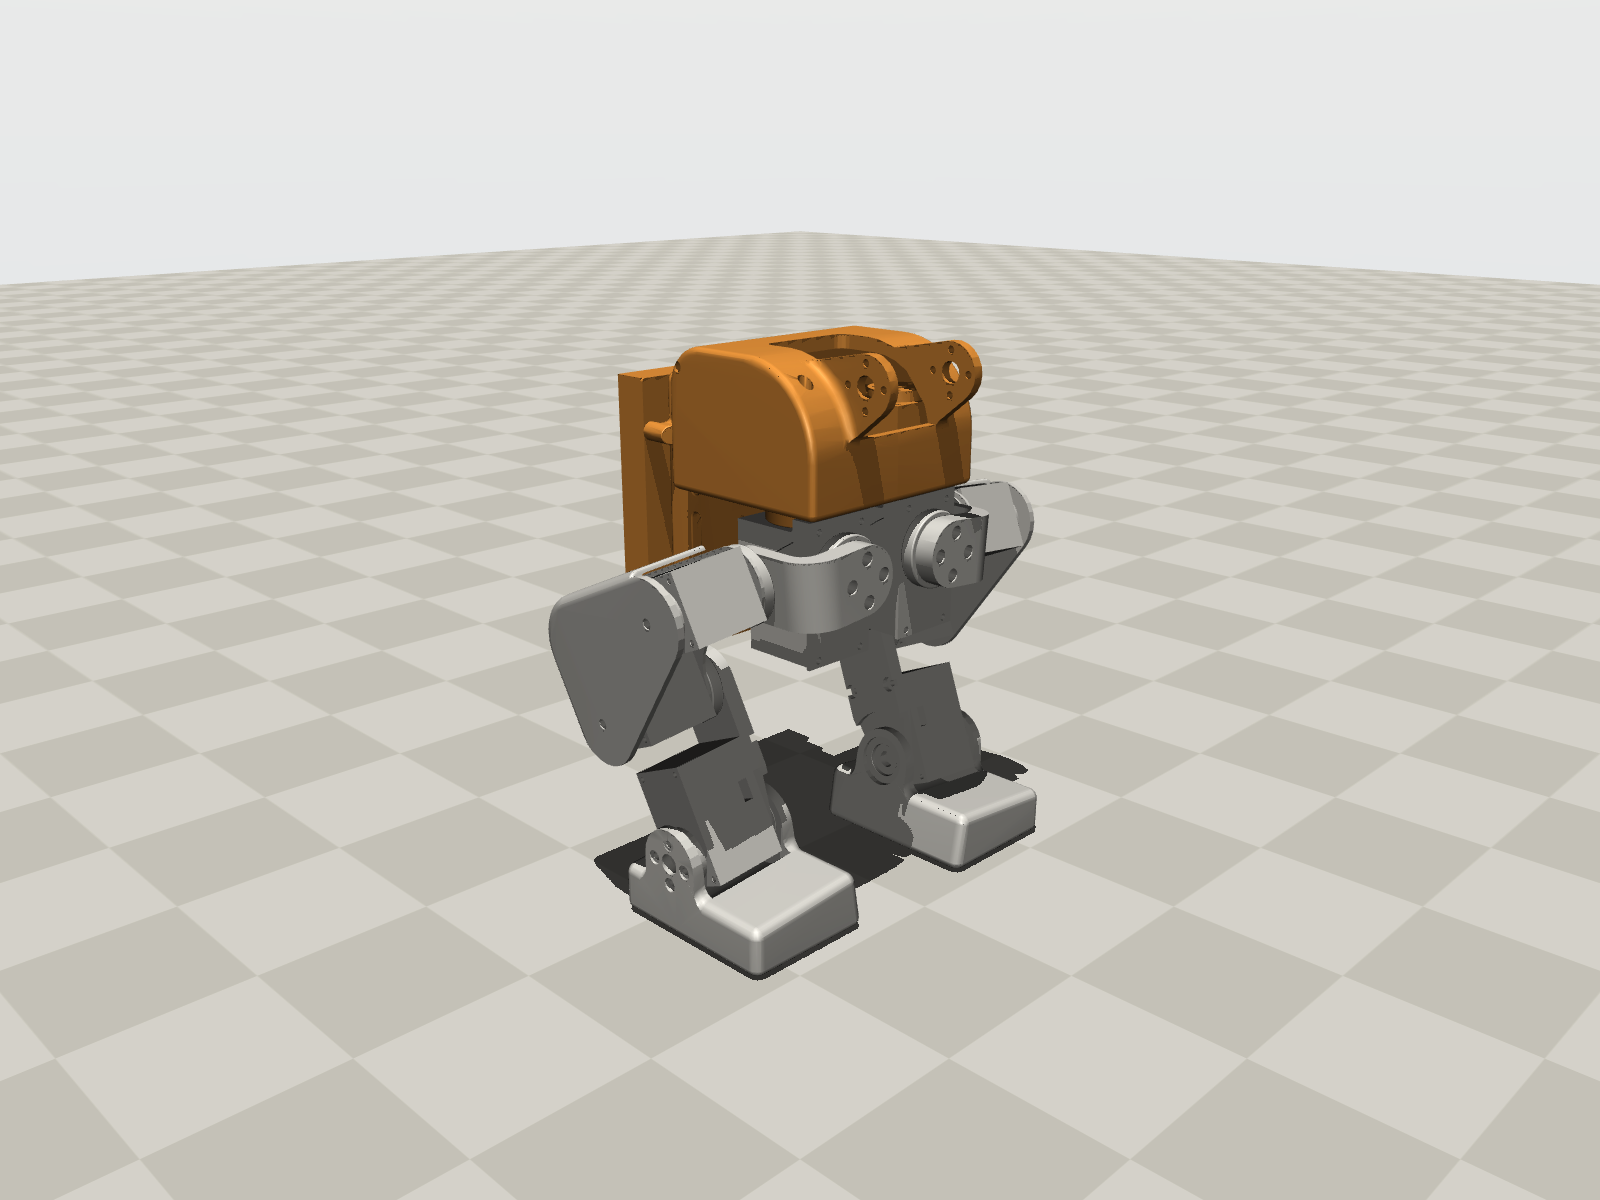
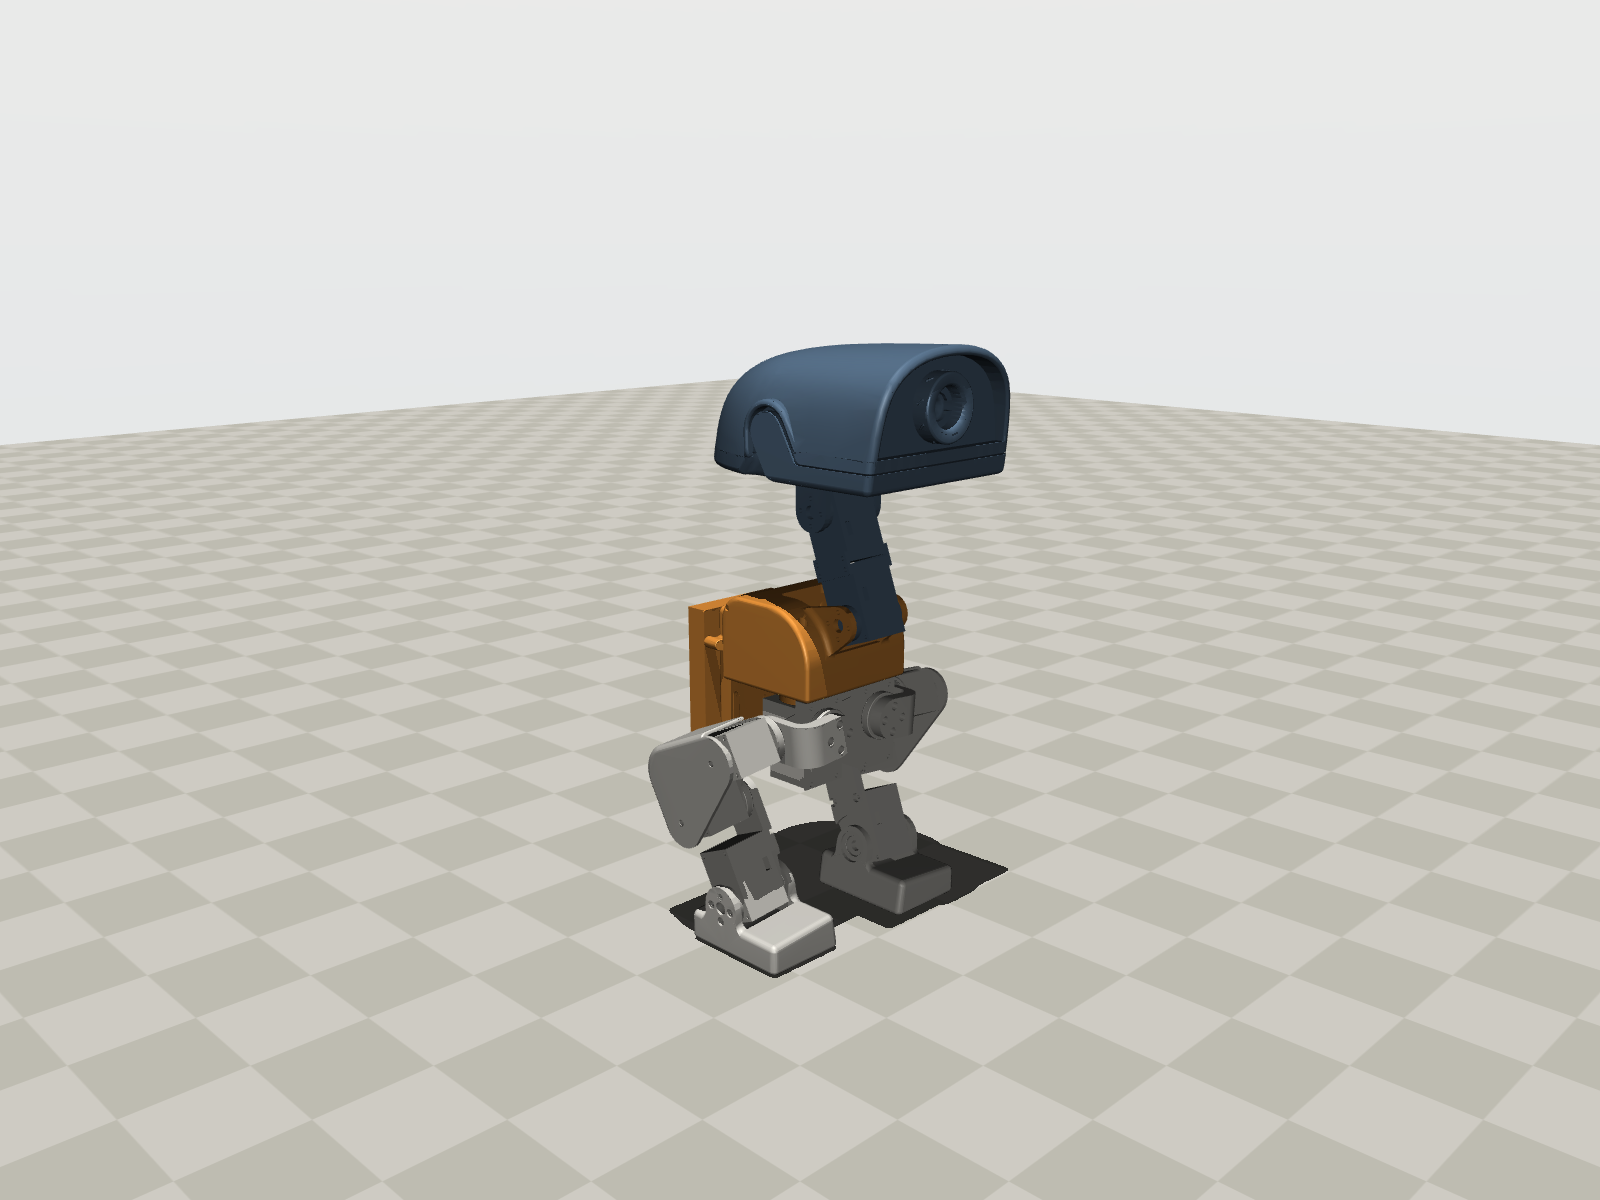
feat(rl): keep the head in simulation as a fixed, unactuated body
The real robot has no neck/head servos or sensors, but the simulation
now keeps the neck/head geometry and mass, welded at xgoduck's HOME
angles, instead of deleting it. Only the 10 leg joints move, so the
policy stays at 39 observations / 10 actions. Head COM randomization is
kept; HEAD_MASS_KG lets the measured head mass replace xgoduck's (which
includes 4 servos).

check_model.py now verifies the fixed-head model matches xgoduck's mass
and COM at home and reports the head-removed variant for comparison
(COM 7 mm vs 16 mm behind the feet). Renders updated accordingly.

Claude-Session: https://claude.ai/code/session_01RC83XNZvoTV4sHA6QD2JPK

Changed region(s): [[0.0, 0.185, 1.0, 0.8325]]

diff --git a/rl/hangoutduck_rl/robot.py b/rl/hangoutduck_rl/robot.py
@@ -1,13 +1,15 @@
-"""HangoutDuck 下半身模型。
+"""HangoutDuck 仿真模型：10 个腿部关节可动，头颈保留为固定件。
 
-在 xgoduck 的 MJCF 上删掉整个颈/头子树（neck → neck_pitch → yaw_roll_motion → jaw_soft）
-和对应的 4 个执行器，腿、HLS1910 的 BAM 执行器模型、碰撞设置全部沿用 xgoduck。
+真机头颈不装舵机和传感器，但仿真里保留整个头颈子树
+（neck → neck_pitch → yaw_roll_motion → jaw_soft）的几何和质量：
+删掉 4 个颈/头关节和执行器，把头颈按 xgoduck 的 home 角度焊死在躯干上。
+腿、HLS1910 的 BAM 执行器模型、碰撞设置全部沿用 xgoduck。
 """
 
 from __future__ import annotations
 
 import math
-from typing import Optional
+from typing import Dict, Optional
 
 import mujoco
 import numpy as np
@@ -16,7 +18,15 @@ from mjlab.entity import EntityArticulationInfoCfg, EntityCfg
 from mjlab_microduck.robot import xgoduck_constants as xgo
 
 NECK_ROOT_BODY = "neck"
-REMOVED_JOINTS = ("neck_pitch", "head_pitch", "head_yaw", "head_roll")
+HEAD_BODIES = ("neck", "neck_pitch", "yaw_roll_motion", "jaw_soft")
+
+# 头颈关节焊死的角度（rad），即 xgoduck 的 home 姿态
+HEAD_FIXED_POS: Dict[str, float] = {
+    "neck_pitch": 0.3491,
+    "head_pitch": 0.3491,
+    "head_yaw": 0.0,
+    "head_roll": 0.0,
+}
 
 # 与 main 分支 hardware/joints.yaml 的顺序一致，也是策略动作/观测里的关节顺序
 LEG_JOINTS = (
@@ -25,38 +35,79 @@ LEG_JOINTS = (
 )
 
 # ---- 需要按实物修改的参数 ----------------------------------------------------
-# 躯干（trunk_base）质量，kg：称「躯干打印件 + 躯干上的一切（IMU、线材、螺丝），不含腿」。
-# None 表示沿用 xgoduck 的值（0.238 kg，是它按整机 0.8 kg 缩放出来的）。
-# 我们身上没有主控和电池，躯干很可能更轻，务必实称后填写。
 # 改完用 `python rl/scripts/check_model.py` 看整机质量和质心。
+#
+# 躯干（trunk_base）质量，kg：称「躯干打印件 + 躯干上的一切（IMU、线材、螺丝），不含腿和头」。
+# None 表示沿用 xgoduck 的值（0.238 kg，是它按整机 0.8 kg 缩放出来的）。
 TRUNK_MASS_KG: Optional[float] = None
+# 头颈总质量，kg（neck、neck_pitch、yaw_roll_motion、jaw_soft 四个 body 合计）。
+# None 表示沿用 xgoduck 的 0.251 kg，其中包含 4 个颈/头舵机；
+# 我们的头不装舵机，实物会更轻，装好后称重填写（各 body 按比例缩放）。
+HEAD_MASS_KG: Optional[float] = None
 
 
-def strip_head(spec: mujoco.MjSpec, trunk_mass_kg: Optional[float] = None) -> mujoco.MjSpec:
-    """原地修改 spec：删掉颈/头，按需改躯干质量（惯量按同比例缩放）。"""
+def _scale_body_mass(body, scale: float) -> None:
+    body.mass = body.mass * scale
+    body.fullinertia = np.asarray(body.fullinertia) * scale
+
+
+def _rotate_about_local_z(quat, angle: float) -> np.ndarray:
+    out = np.zeros(4)
+    mujoco.mju_mulQuat(out, np.asarray(quat, dtype=float), np.array([math.cos(angle / 2), 0.0, 0.0, math.sin(angle / 2)]))
+    return out
+
+
+def freeze_head(
+    spec: mujoco.MjSpec,
+    trunk_mass_kg: Optional[float] = None,
+    head_mass_kg: Optional[float] = None,
+) -> mujoco.MjSpec:
+    """原地修改 spec：删掉颈/头的关节和执行器，头颈按 HEAD_FIXED_POS 焊在躯干上。
+
+    xgoduck 的颈/头关节都在各自 body 的原点、绕本地 z 轴转动，
+    所以把 body 的姿态绕本地 z 轴转过对应角度，就等于把关节固定在这个角度。
+    """
     for actuator in list(spec.actuators):
-        if actuator.target in REMOVED_JOINTS:
+        if actuator.target in HEAD_FIXED_POS:
             spec.delete(actuator)
-    spec.delete(spec.body(NECK_ROOT_BODY))
+    for joint in list(spec.joints):
+        if joint.name in HEAD_FIXED_POS:
+            body = joint.parent
+            if np.any(np.asarray(joint.pos) != 0) or list(joint.axis) != [0, 0, 1]:
+                raise ValueError(f"{joint.name}: expected a z-axis hinge at the body origin")
+            body.quat = _rotate_about_local_z(body.quat, HEAD_FIXED_POS[joint.name])
+            spec.delete(joint)
     if trunk_mass_kg is not None:
         trunk = spec.body("trunk_base")
-        scale = trunk_mass_kg / trunk.mass
-        trunk.mass = trunk_mass_kg
-        trunk.fullinertia = np.asarray(trunk.fullinertia) * scale
+        _scale_body_mass(trunk, trunk_mass_kg / trunk.mass)
+    if head_mass_kg is not None:
+        bodies = [spec.body(n) for n in HEAD_BODIES]
+        scale = head_mass_kg / sum(b.mass for b in bodies)
+        for b in bodies:
+            _scale_body_mass(b, scale)
+    return spec
+
+
+def remove_head(spec: mujoco.MjSpec) -> mujoco.MjSpec:
+    """只用于对比：完全去掉头颈（之前的方案）。训练不用。"""
+    for actuator in list(spec.actuators):
+        if actuator.target in HEAD_FIXED_POS:
+            spec.delete(actuator)
+    spec.delete(spec.body(NECK_ROOT_BODY))
     return spec
 
 
 def get_walk_spec() -> mujoco.MjSpec:
-    return strip_head(xgo.get_walk_spec(), TRUNK_MASS_KG)
+    return freeze_head(xgo.get_walk_spec(), TRUNK_MASS_KG, HEAD_MASS_KG)
 
 
 def get_standup_spec() -> mujoco.MjSpec:
-    return strip_head(xgo.get_standup_spec(), TRUNK_MASS_KG)
+    return freeze_head(xgo.get_standup_spec(), TRUNK_MASS_KG, HEAD_MASS_KG)
 
 
 _DEG24 = math.radians(24)
 
-# 与 xgoduck 相同的站姿（hip_pitch / ankle ±24°，hip_roll ±5°），去掉颈/头
+# 与 xgoduck 相同的站姿（hip_pitch / ankle ±24°，hip_roll ±5°）；头颈是固定件，不在这里
 HOME_JOINT_POS = {
     "left_hip_yaw": 0.0,
     "left_hip_roll": -0.0873,

diff --git a/rl/scripts/render_model.py b/rl/scripts/render_model.py
@@ -1,4 +1,4 @@
-"""把下半身模型渲染成图片/GIF，用于汇报和标定参考。不需要显卡。
+"""把 HangoutDuck 模型渲染成图片/GIF，用于汇报和标定参考。不需要显卡。
 
 没有显示器的机器用虚拟显示运行：
     cd rl/third_party/xgoduck_rl
@@ -6,10 +6,10 @@
         uv run python ../../scripts/render_model.py --out ../../../docs/sim
 
 输出：
-  hangoutduck_home.png   下半身模型，站姿（home）
-  hangoutduck_zero.png   全部关节为 0 的机械零位（标定时要摆的姿态）
-  compare_side.png       侧视对比：左 xgoduck（带头），右 HangoutDuck；红线 = 质心，蓝点 = 双脚中心
-  stand_test.gif         两台机器用位置 PD 保持站姿 3 秒（左 xgoduck，右 HangoutDuck）
+  hangoutduck_home.png   HangoutDuck（头颈固定，10 个腿关节），站姿（home）
+  hangoutduck_zero.png   腿部关节全部为 0 的机械零位（标定时要摆的姿态）
+  compare_side.png       侧视对比：左 保留头（固定），右 去掉头；红线 = 质心，蓝点 = 双脚中心
+  stand_test.gif         两者用位置 PD 保持站姿 3 秒（左 保留头，右 去掉头）
 """
 
 from __future__ import annotations
@@ -24,8 +24,6 @@ from PIL import Image
 
 from hangoutduck_rl import robot as hd
 from mjlab_microduck.robot import xgoduck_constants as xgo
-
-XGODUCK_HOME = {**hd.HOME_JOINT_POS, "neck_pitch": 0.3491, "head_pitch": 0.3491, "head_yaw": 0.0, "head_roll": 0.0}
 
 BODY_RGBA = np.array([0.91, 0.58, 0.23, 1.0])  # 躯干：橙
 LEG_RGBA = np.array([0.86, 0.85, 0.82, 1.0])  # 腿：暖灰
@@ -130,18 +128,18 @@ def main() -> None:
     hd_data = mujoco.MjData(hd_model)
 
     set_pose(hd_model, hd_data, hd.HOME_JOINT_POS, hd.STAND_Z)
-    Image.fromarray(render(hd_model, hd_data, camera([0.0, 0.0, 0.08], 0.42, 135, -18), W, H)).save(out / "hangoutduck_home.png")
+    Image.fromarray(render(hd_model, hd_data, camera([0.0, 0.0, 0.15], 0.66, 135, -14), W, H)).save(out / "hangoutduck_home.png")
 
     set_pose(hd_model, hd_data, {n: 0.0 for n in hd.LEG_JOINTS}, hd.STAND_Z + 0.02)
-    Image.fromarray(render(hd_model, hd_data, camera([0.0, 0.0, 0.09], 0.42, 135, -12), W, H)).save(out / "hangoutduck_zero.png")
+    Image.fromarray(render(hd_model, hd_data, camera([0.0, 0.0, 0.16], 0.66, 135, -10), W, H)).save(out / "hangoutduck_zero.png")
 
     # 侧视对比（从机器人右侧看，x 朝前 = 画面向左）
     SW, SH = 900, 1100
-    xg_model = build(xgo.get_walk_spec(), SW, SH, alpha=0.35)
+    xg_model = build(hd.get_walk_spec(), SW, SH, alpha=0.35)
     xg_data = mujoco.MjData(xg_model)
-    hd_side = build(hd.get_walk_spec(), SW, SH, alpha=0.35)
+    hd_side = build(hd.remove_head(xgo.get_walk_spec()), SW, SH, alpha=0.35)
     hd_side_data = mujoco.MjData(hd_side)
-    set_pose(xg_model, xg_data, XGODUCK_HOME, hd.STAND_Z)
+    set_pose(xg_model, xg_data, hd.HOME_JOINT_POS, hd.STAND_Z)
     set_pose(hd_side, hd_side_data, hd.HOME_JOINT_POS, hd.STAND_Z)
     side = camera([0.02, 0.0, 0.10], 0.48, -90, -8)
     left = render(xg_model, xg_data, side, SW, SH, markers=True)
@@ -151,10 +149,10 @@ def main() -> None:
 
     # 站立测试 GIF
     GW, GH = 480, 560
-    xg_g = build(xgo.get_walk_spec(), GW, GH, alpha=0.45)
-    hd_g = build(hd.get_walk_spec(), GW, GH, alpha=0.45)
+    xg_g = build(hd.get_walk_spec(), GW, GH, alpha=0.45)
+    hd_g = build(hd.remove_head(xgo.get_walk_spec()), GW, GH, alpha=0.45)
     runs = []
-    for model, pose in ((xg_g, XGODUCK_HOME), (hd_g, hd.HOME_JOINT_POS)):
+    for model, pose in ((xg_g, hd.HOME_JOINT_POS), (hd_g, hd.HOME_JOINT_POS)):
         data = mujoco.MjData(model)
         set_pose(model, data, pose, hd.STAND_Z)
         runs.append((model, data))

diff --git a/rl/scripts/check_model.py b/rl/scripts/check_model.py
@@ -1,10 +1,12 @@
-"""检查下半身模型：关节顺序、质量、站姿质心，以及用 MuJoCo 自带 PD 做 3 秒站立测试。
+"""检查 HangoutDuck 模型：关节顺序、质量、站姿质心，以及用 MuJoCo 自带 PD 做 3 秒站立测试。
 
 不需要显卡。在 xgoduck_rl 的环境里运行：
     cd rl/third_party/xgoduck_rl && uv run python ../../scripts/check_model.py
 
-对比完整的 xgoduck（带头）和 HangoutDuck（去头），重点看质心相对双脚支撑区的位置：
-头在躯干前方，去掉后质心会后移，站立和步态都要考虑这一点。
+对比三个模型，重点看质心相对双脚支撑区的位置：
+  xgoduck（头颈 4 个关节可动，站 home 姿态）
+  HangoutDuck（头颈焊死在同一 home 角度，只有 10 个腿关节）—— 质量和质心应与上面完全一致
+  去掉头的方案（仅作对比）—— 头在躯干前方，去掉后质心明显后移
 """
 
 from __future__ import annotations
@@ -75,7 +77,7 @@ def report(label: str, spec: mujoco.MjSpec, home: dict, seconds: float) -> dict:
     print(f"feet centre x={support_x*1000:+.1f} mm  -> COM ahead of feet by {(com[0]-support_x)*1000:+.1f} mm")
     print(f"after {seconds:g} s standing with position PD: trunk z={z*1000:.1f} mm, tilt={tilt:.1f} deg "
           f"-> {'stands' if tilt < 15 and z > 0.08 else 'FALLS'}")
-    return {"hinge": hinge, "actuated": actuated, "tilt": tilt, "z": z}
+    return {"hinge": hinge, "actuated": actuated, "tilt": tilt, "z": z, "com": com}
 
 
 def main() -> int:
@@ -83,8 +85,9 @@ def main() -> int:
     ap.add_argument("--seconds", type=float, default=3.0)
     args = ap.parse_args()
 
-    report("xgoduck (with head, upstream)", xgo.get_walk_spec(), XGODUCK_HOME, args.seconds)
-    r = report("HangoutDuck (lower body)", hd.get_walk_spec(), hd.HOME_JOINT_POS, args.seconds)
+    ref = report("xgoduck (head joints actuated, upstream)", xgo.get_walk_spec(), XGODUCK_HOME, args.seconds)
+    r = report("HangoutDuck (head fixed, 10 leg joints)", hd.get_walk_spec(), hd.HOME_JOINT_POS, args.seconds)
+    report("head removed (comparison only)", hd.remove_head(xgo.get_walk_spec()), hd.HOME_JOINT_POS, args.seconds)
 
     ok = True
     if tuple(r["actuated"]) != hd.LEG_JOINTS:
@@ -93,9 +96,12 @@ def main() -> int:
     if set(r["hinge"]) != set(hd.LEG_JOINTS):
         print(f"\nERROR: unexpected joints left in model: {sorted(set(r['hinge']) - set(hd.LEG_JOINTS))}")
         ok = False
-    if hd.TRUNK_MASS_KG is None:
-        print("\nnote: TRUNK_MASS_KG is not set; trunk mass is still xgoduck's. Weigh the real trunk and set it in "
-              "rl/hangoutduck_rl/robot.py")
+    if hd.TRUNK_MASS_KG is None and hd.HEAD_MASS_KG is None and not np.allclose(r["com"], ref["com"], atol=1e-4):
+        print(f"\nERROR: fixed-head COM {r['com']} differs from xgoduck at home {ref['com']}; head frozen at wrong angle?")
+        ok = False
+    if hd.TRUNK_MASS_KG is None or hd.HEAD_MASS_KG is None:
+        print("\nnote: TRUNK_MASS_KG / HEAD_MASS_KG not set; masses are still xgoduck's. Weigh the real trunk and head "
+              "and set them in rl/hangoutduck_rl/robot.py")
     print("\nmodel check:", "OK" if ok else "FAILED")
     return 0 if ok else 1
 

diff --git a/rl/hangoutduck_rl/tasks.py b/rl/hangoutduck_rl/tasks.py
@@ -1,8 +1,9 @@
-"""HangoutDuck 下半身行走任务。
+"""HangoutDuck 行走任务：10 个腿部关节可动，头颈是固定件。
 
 直接复用 xgoduck 的 velocity 配方（奖励、域随机化、课程都不变），只做两件事：
-1. 机器人换成下半身模型（10 个关节）；
-2. 去掉所有和头相关的项：头部/身体姿态指令、对应的观测、奖励、事件和课程。
+1. 机器人换成 HangoutDuck 模型（头颈焊死在 home 角度，只剩 10 个关节）；
+2. 去掉头颈关节相关的项：头部/身体姿态指令、对应的观测、奖励和课程。
+   头颈的质心随机化保留（头还在，只是不能动），用来覆盖实物头部重量的不确定。
 
 策略观测因此是 39 维：
   [0:3]   base_ang_vel      机体系角速度 rad/s
@@ -31,11 +32,10 @@ ACTION_DIM = 10
 _HEAD_COMMANDS = ("head_pose", "body_pose")
 _HEAD_OBS_TERMS = ("head_command", "body_command")
 _HEAD_REWARDS = ("head_pose_tracking", "head_pose_bias", "body_pose_tracking")
-_HEAD_EVENTS = ("randomize_head_com",)
-_HEAD_CURRICULA = ("head_pose_range", "body_pose_range", "head_com_range", "head_pose_bias_weight")
+_HEAD_CURRICULA = ("head_pose_range", "body_pose_range", "head_pose_bias_weight")
 
 
-def strip_head_terms(cfg):
+def strip_head_joint_terms(cfg):
     for name in _HEAD_COMMANDS:
         cfg.commands.pop(name, None)
     for group in cfg.observations.values():
@@ -43,8 +43,6 @@ def strip_head_terms(cfg):
             group.terms.pop(name, None)
     for name in _HEAD_REWARDS:
         cfg.rewards.pop(name, None)
-    for name in _HEAD_EVENTS:
-        cfg.events.pop(name, None)
     for name in _HEAD_CURRICULA:
         cfg.curriculum.pop(name, None)
     return cfg
@@ -53,7 +51,7 @@ def strip_head_terms(cfg):
 def make_hangoutduck_velocity_env_cfg(play: bool = False, rough: bool = False):
     cfg = _xgoduck_velocity_cfg(play=play, rough=rough)
     cfg.scene.entities = {"robot": HANGOUTDUCK_WALK_ROBOT_CFG}
-    return strip_head_terms(cfg)
+    return strip_head_joint_terms(cfg)
 
 
 # 日志在 logs/rsl_rl/hangoutduck_velocity/

diff --git a/README.md b/README.md
@@ -12,7 +12,7 @@
 | 分支 | 放什么 |
 |---|---|
 | `main` | 真机相关：舵机驱动、IMU、Jetson Nano 运行时、调试工具、硬件文档 |
-| `rl` | 仿真与强化学习：下半身 10 自由度模型、训练任务、策略导出与部署适配 |
+| `rl` | 仿真与强化学习：10 个腿关节可动、头颈固定的模型，训练任务、策略导出与部署适配 |
 
 ## 目录
 
@@ -84,8 +84,8 @@ hduck bench-loop --hz 50 --seconds 10
 | WP4 舵机驱动层 | ✅ 代码与测试完成，待真机验证 |
 | WP5 IMU 接入 | ✅ WIT 驱动与滤波完成，待到货 |
 | WP9 Nano 运行时 | ✅ 框架完成（stand / sweep） |
-| WP3 下半身仿真模型 | ✅ 见 `rl/`（躯干质量待实称） |
-| WP8 RL 下半身策略 | 任务与部署链路已通，待在显卡上正式训练，见 `rl/README.md` |
+| WP3 仿真模型 | ✅ 见 `rl/`：头颈保留为固定件（躯干、头颈质量待实称） |
+| WP8 RL 行走策略 | 任务与部署链路已通，待在显卡上正式训练，见 `rl/README.md` |
 | WP6 装配标定、WP7 保底步态 | 未开始 |
 
 ## 致谢与许可
